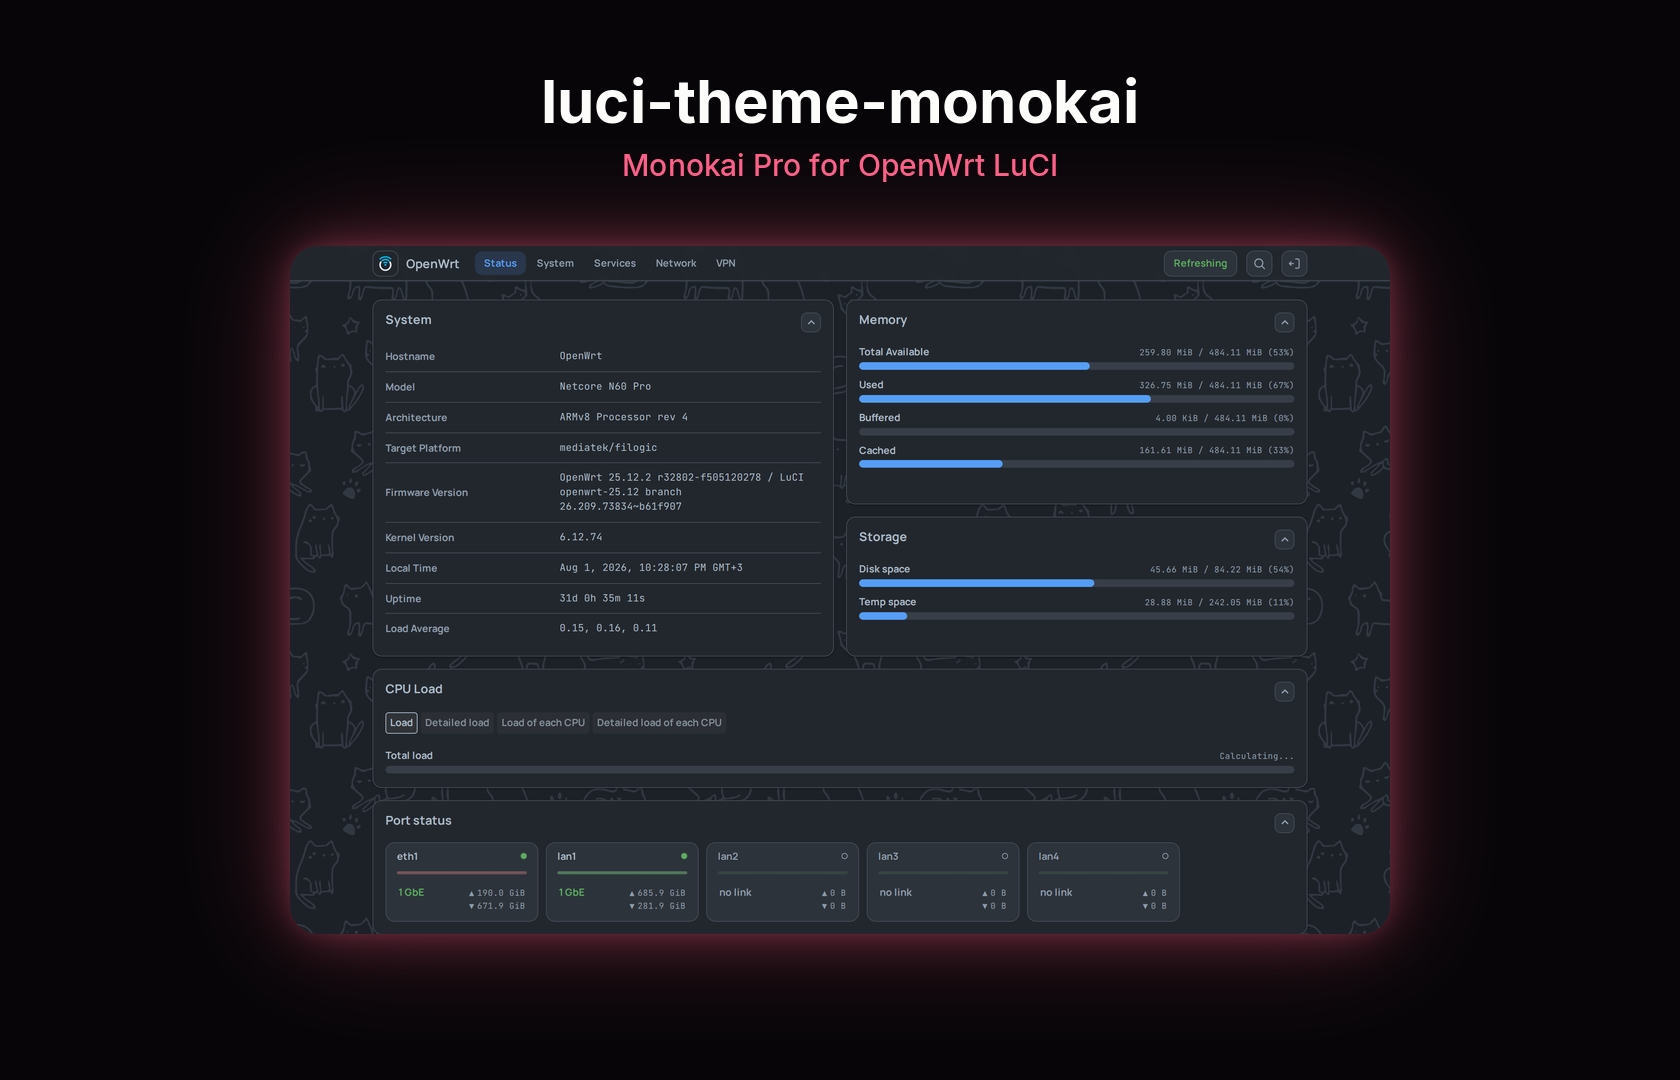
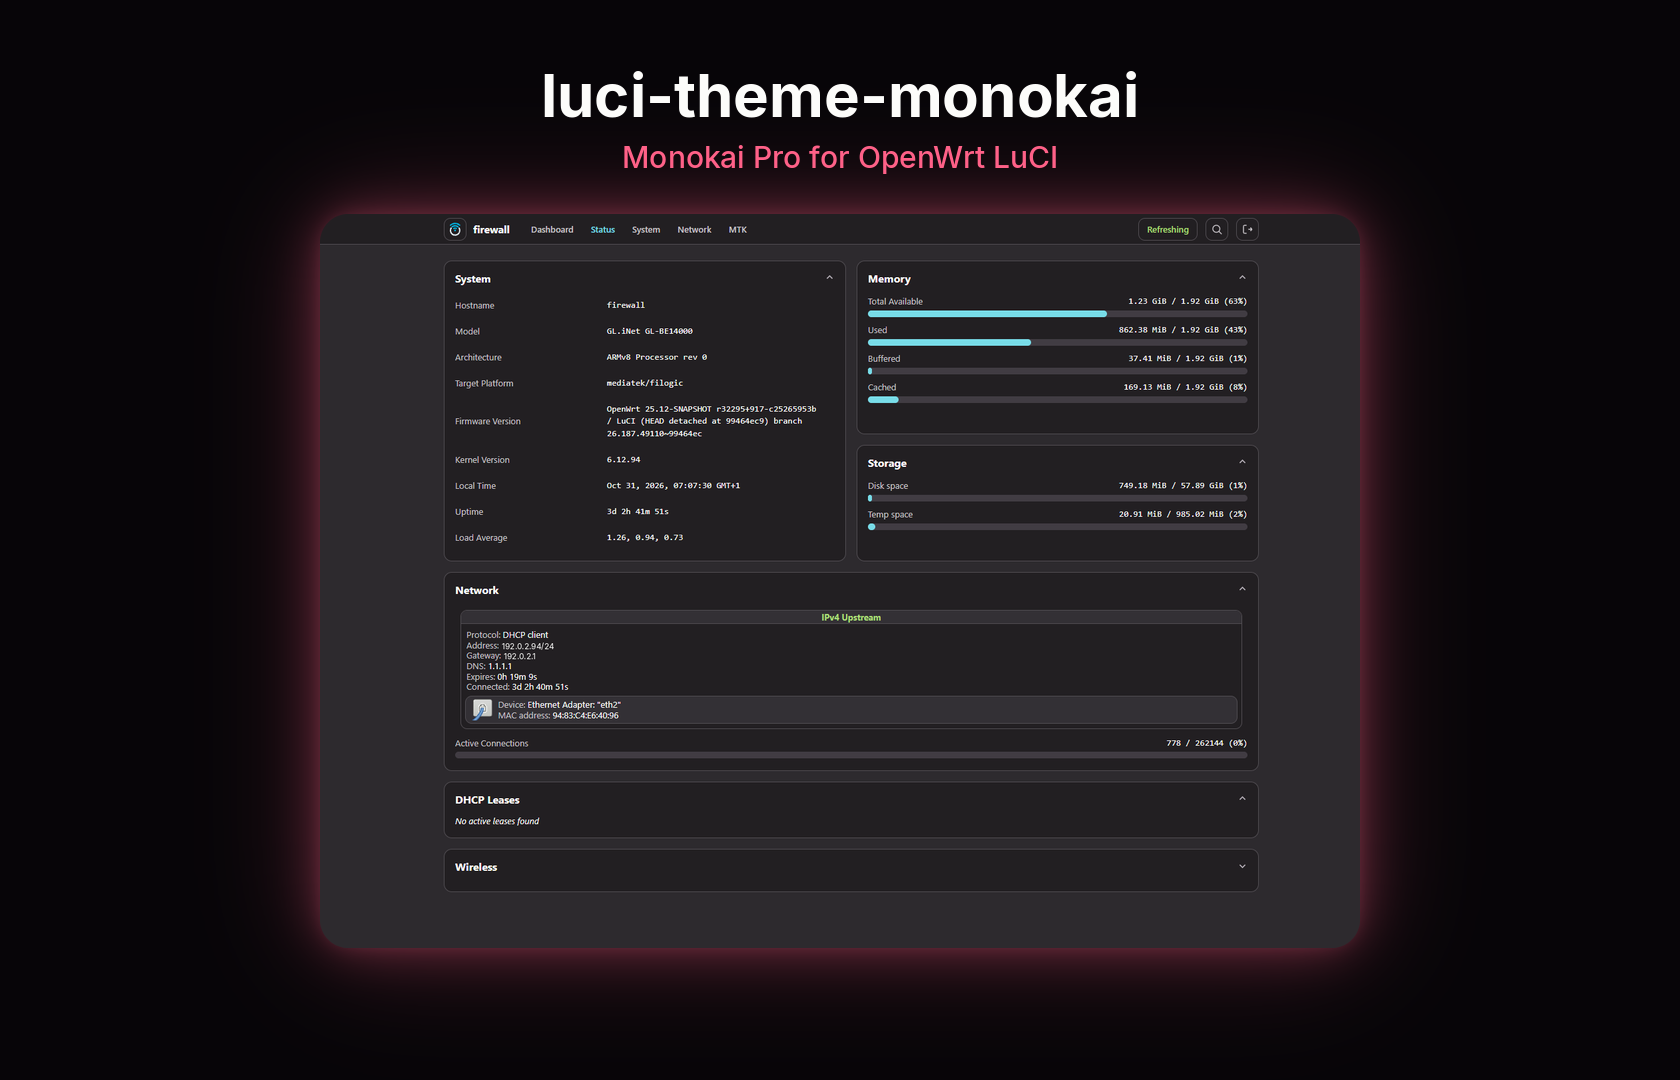
docs: use the firewall Status shot in the README hero
Keep the title, subtitle and magenta glow. Replace the WAN address
and gateway with documentation addresses from 192.0.2.0/24.

Changed region(s): [[0.1548, 0.0611, 0.8667, 0.8861]]

diff --git a/CHANGELOG.md b/CHANGELOG.md
@@ -2,7 +2,7 @@
 
 ### Added
 
-- **The README opens on a hero of the Status overview.** The dark desktop screenshot, from the header through Port status, sits in a rounded window with the same white title, pink subtitle and magenta glow as the Log Viewer hero.
+- **The README opens on a hero of the Status overview.** The dark Status screenshot sits in a rounded window with the same white title, pink subtitle and magenta glow as the Log Viewer hero. The WAN address and its gateway in that shot are replaced with documentation addresses from 192.0.2.0/24.
 
 ## [2.1.0] — 2026-10-31
 
